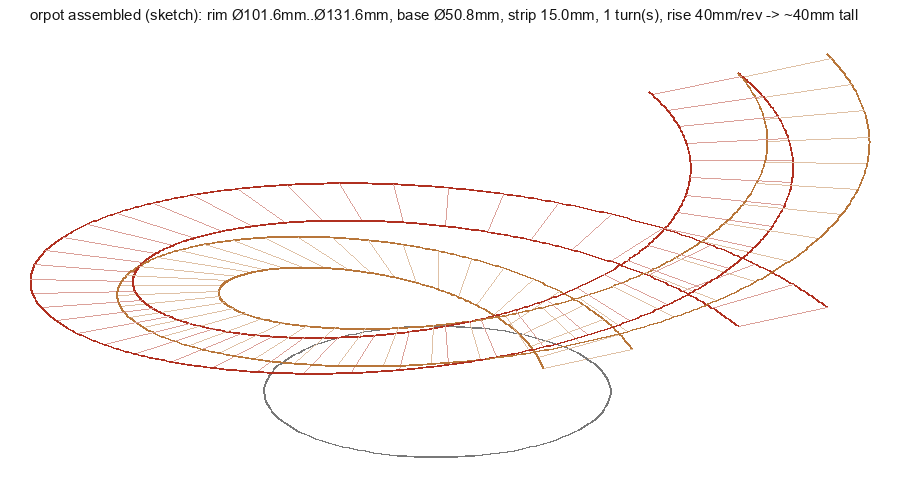
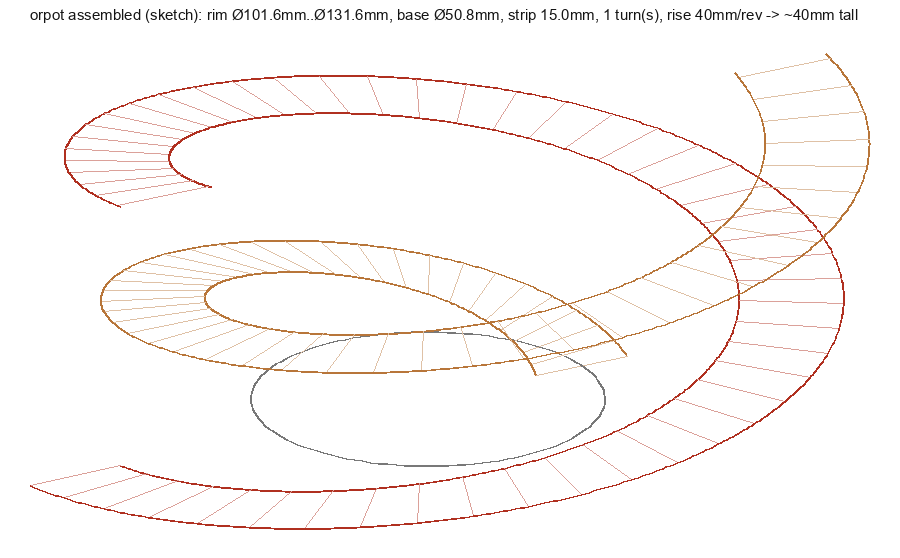
orpot: interleave the two spirals as a 180-degree two-start helix
part_helix gains a phase_rad arg that offsets a spiral's azimuth only
(not its height/radius); the assembly view places the top spiral at pi so
the two flat ramps interleave with starts/ends 180 deg apart. Cut geometry
unchanged.

diff --git a/orpot/spiral.py b/orpot/spiral.py
@@ -207,18 +207,23 @@ def build_part(name: str, cfg: SpiralConfig) -> Polygon:
 # turn and their ends interlock. Total height ~= rise_per_rev (one revolution).
 
 
-def part_helix(name: str, cfg: SpiralConfig) -> dict:
+def part_helix(name: str, cfg: SpiralConfig, phase_rad: float = 0.0) -> dict:
     """3D rails for one spiral in its ASSEMBLED position: a flat (horizontal)
     ribbon climbing rise_per_rev over one revolution. Returns dict of numpy
     (x,y,z) polylines 'center', 'inner', 'outer' (edges offset RADIALLY by
-    +/- strip_w/2, same height), plus 'theta' and 'z_base'."""
+    +/- strip_w/2, same height), plus 'theta' and 'z_base'.
+
+    phase_rad rotates the ribbon's AZIMUTH only (not its height/radius), so the
+    two spirals can be interleaved as a two-start helix with their starts/ends
+    offset (pass pi for a 180-degree offset)."""
     r0, pitch, turns = _part_polar_params(name, cfg)
     theta, r = _spiral_polar(r0, pitch, turns, cfg.seg_mm)
     z = cfg.rise_per_rev_mm * (theta / (2.0 * math.pi))  # both start at the floor
+    az = theta + phase_rad  # azimuth offset for two-start interleaving
 
     def rail(r_off: float) -> np.ndarray:
         rr = r + r_off
-        return np.column_stack([rr * np.cos(theta), rr * np.sin(theta), z])
+        return np.column_stack([rr * np.cos(az), rr * np.sin(az), z])
 
     return {
         "theta": theta,

diff --git a/orpot/orpot.py b/orpot/orpot.py
@@ -18,6 +18,7 @@ Examples:
 from __future__ import annotations
 
 import argparse
+import math
 import sys
 from pathlib import Path
 
@@ -158,7 +159,11 @@ def cmd_preview(args) -> int:
 def cmd_view(args) -> int:
     """3D wireframe sketch of the assembled pot (both spirals stacked)."""
     cfg = _config_from_args(args)
-    helices = [(n, part_helix(n, cfg)) for n in ("bottom", "top")]
+    # Two-start helix: offset the top spiral's azimuth by 180 deg.
+    helices = [
+        ("bottom", part_helix("bottom", cfg, phase_rad=0.0)),
+        ("top", part_helix("top", cfg, phase_rad=math.pi)),
+    ]
     total_h = cfg.rise_per_rev_mm * cfg.turns  # interleaved: both share one rise
     FIG_DIR.mkdir(exist_ok=True)
     stem = FIG_DIR / "assembly"